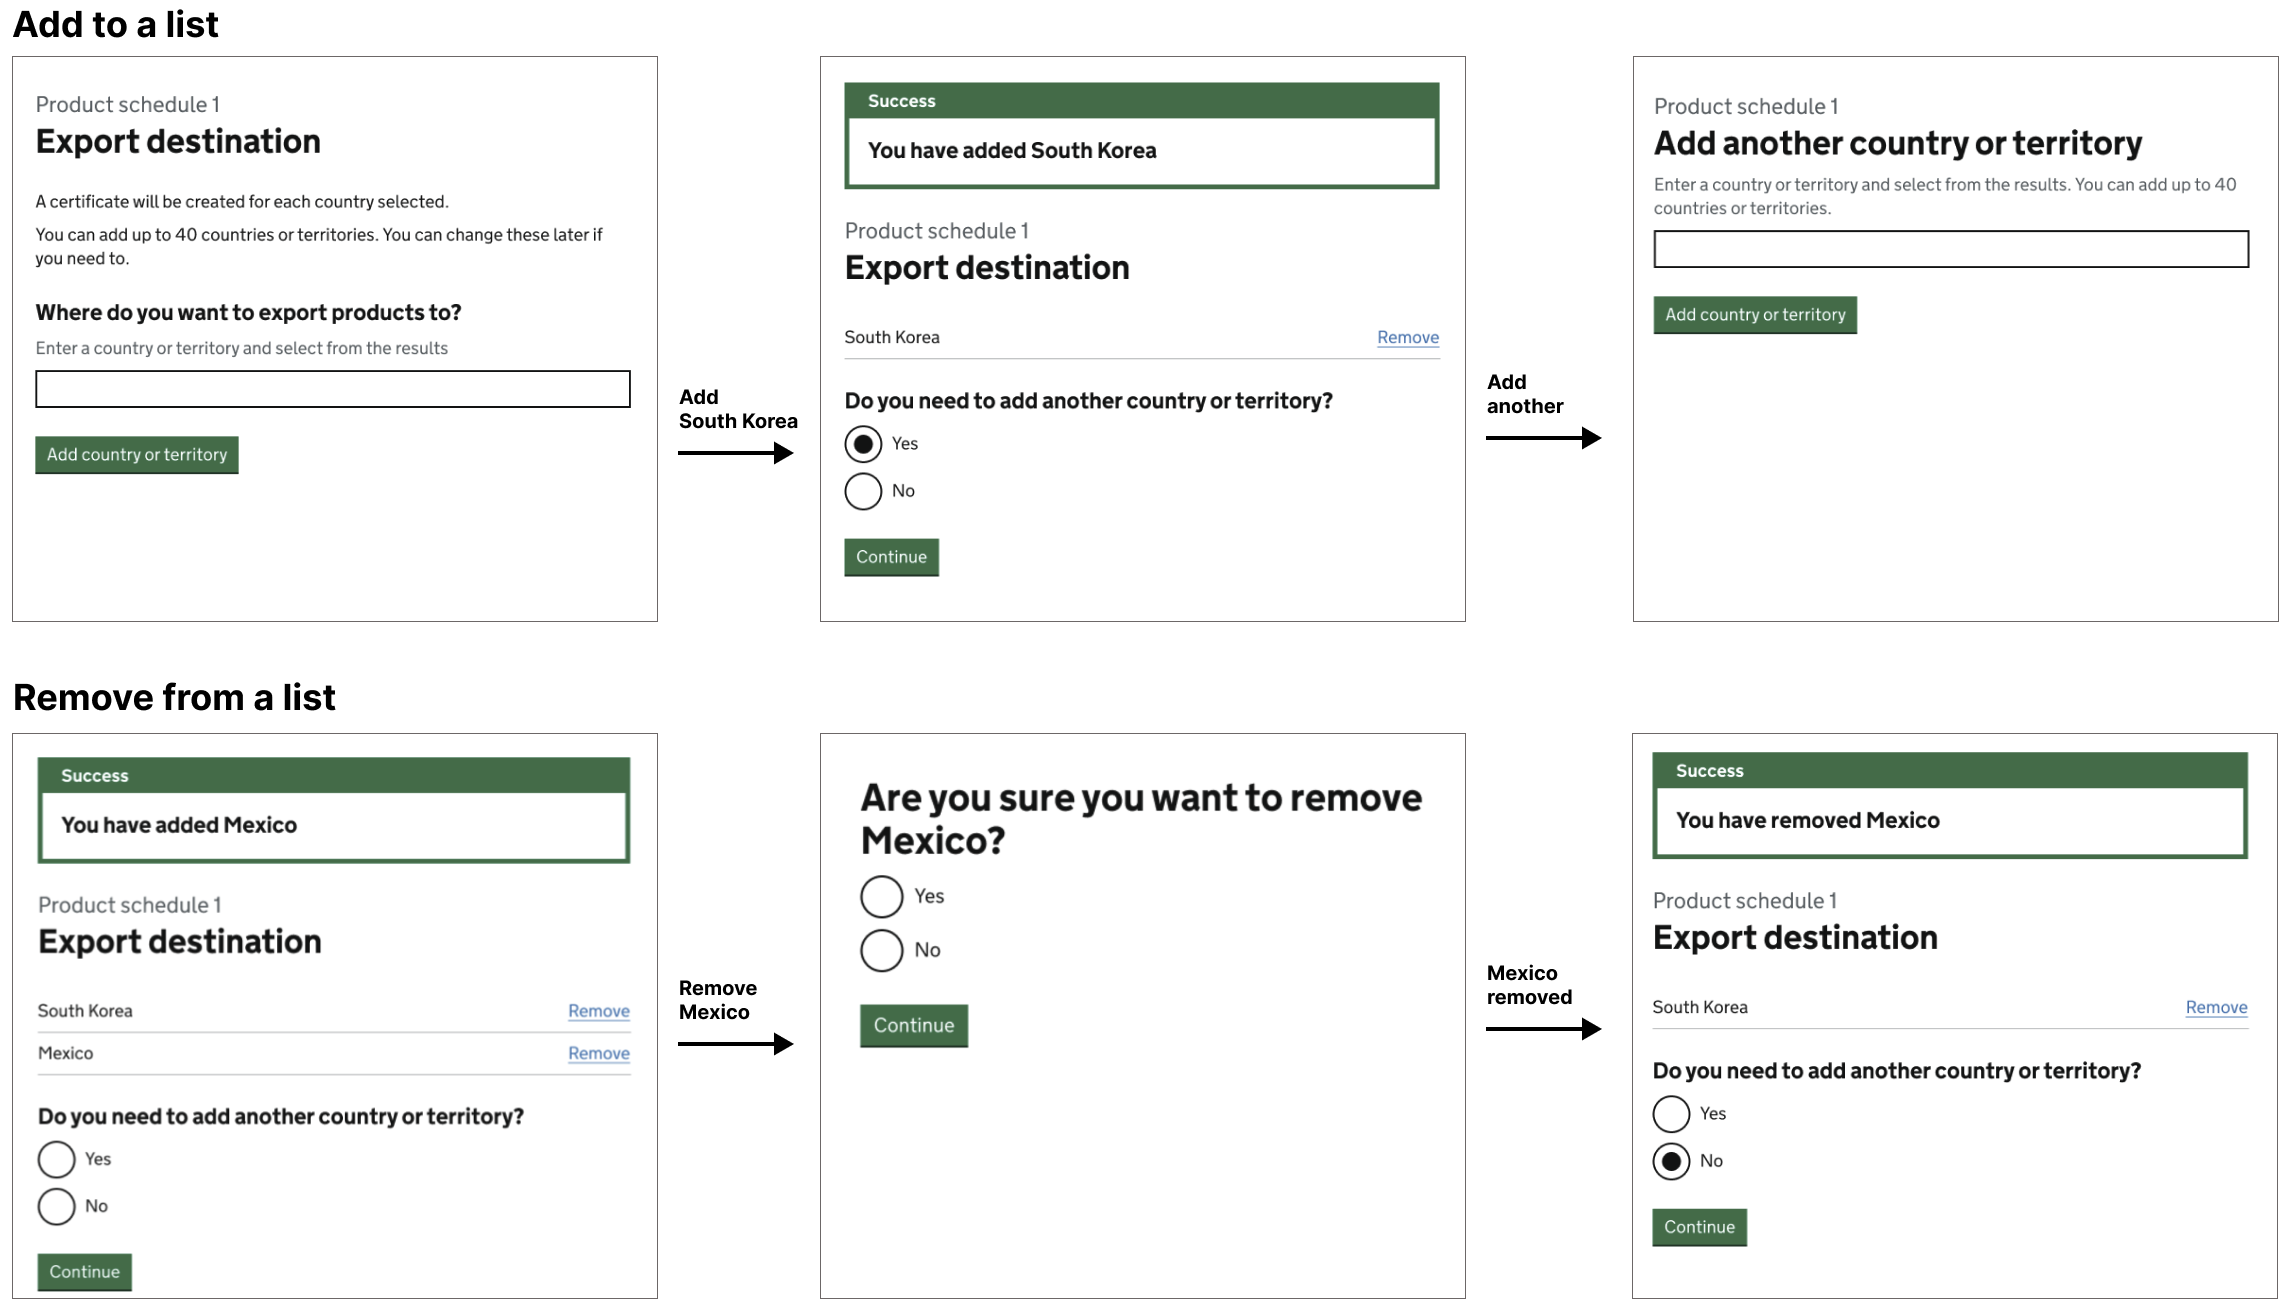
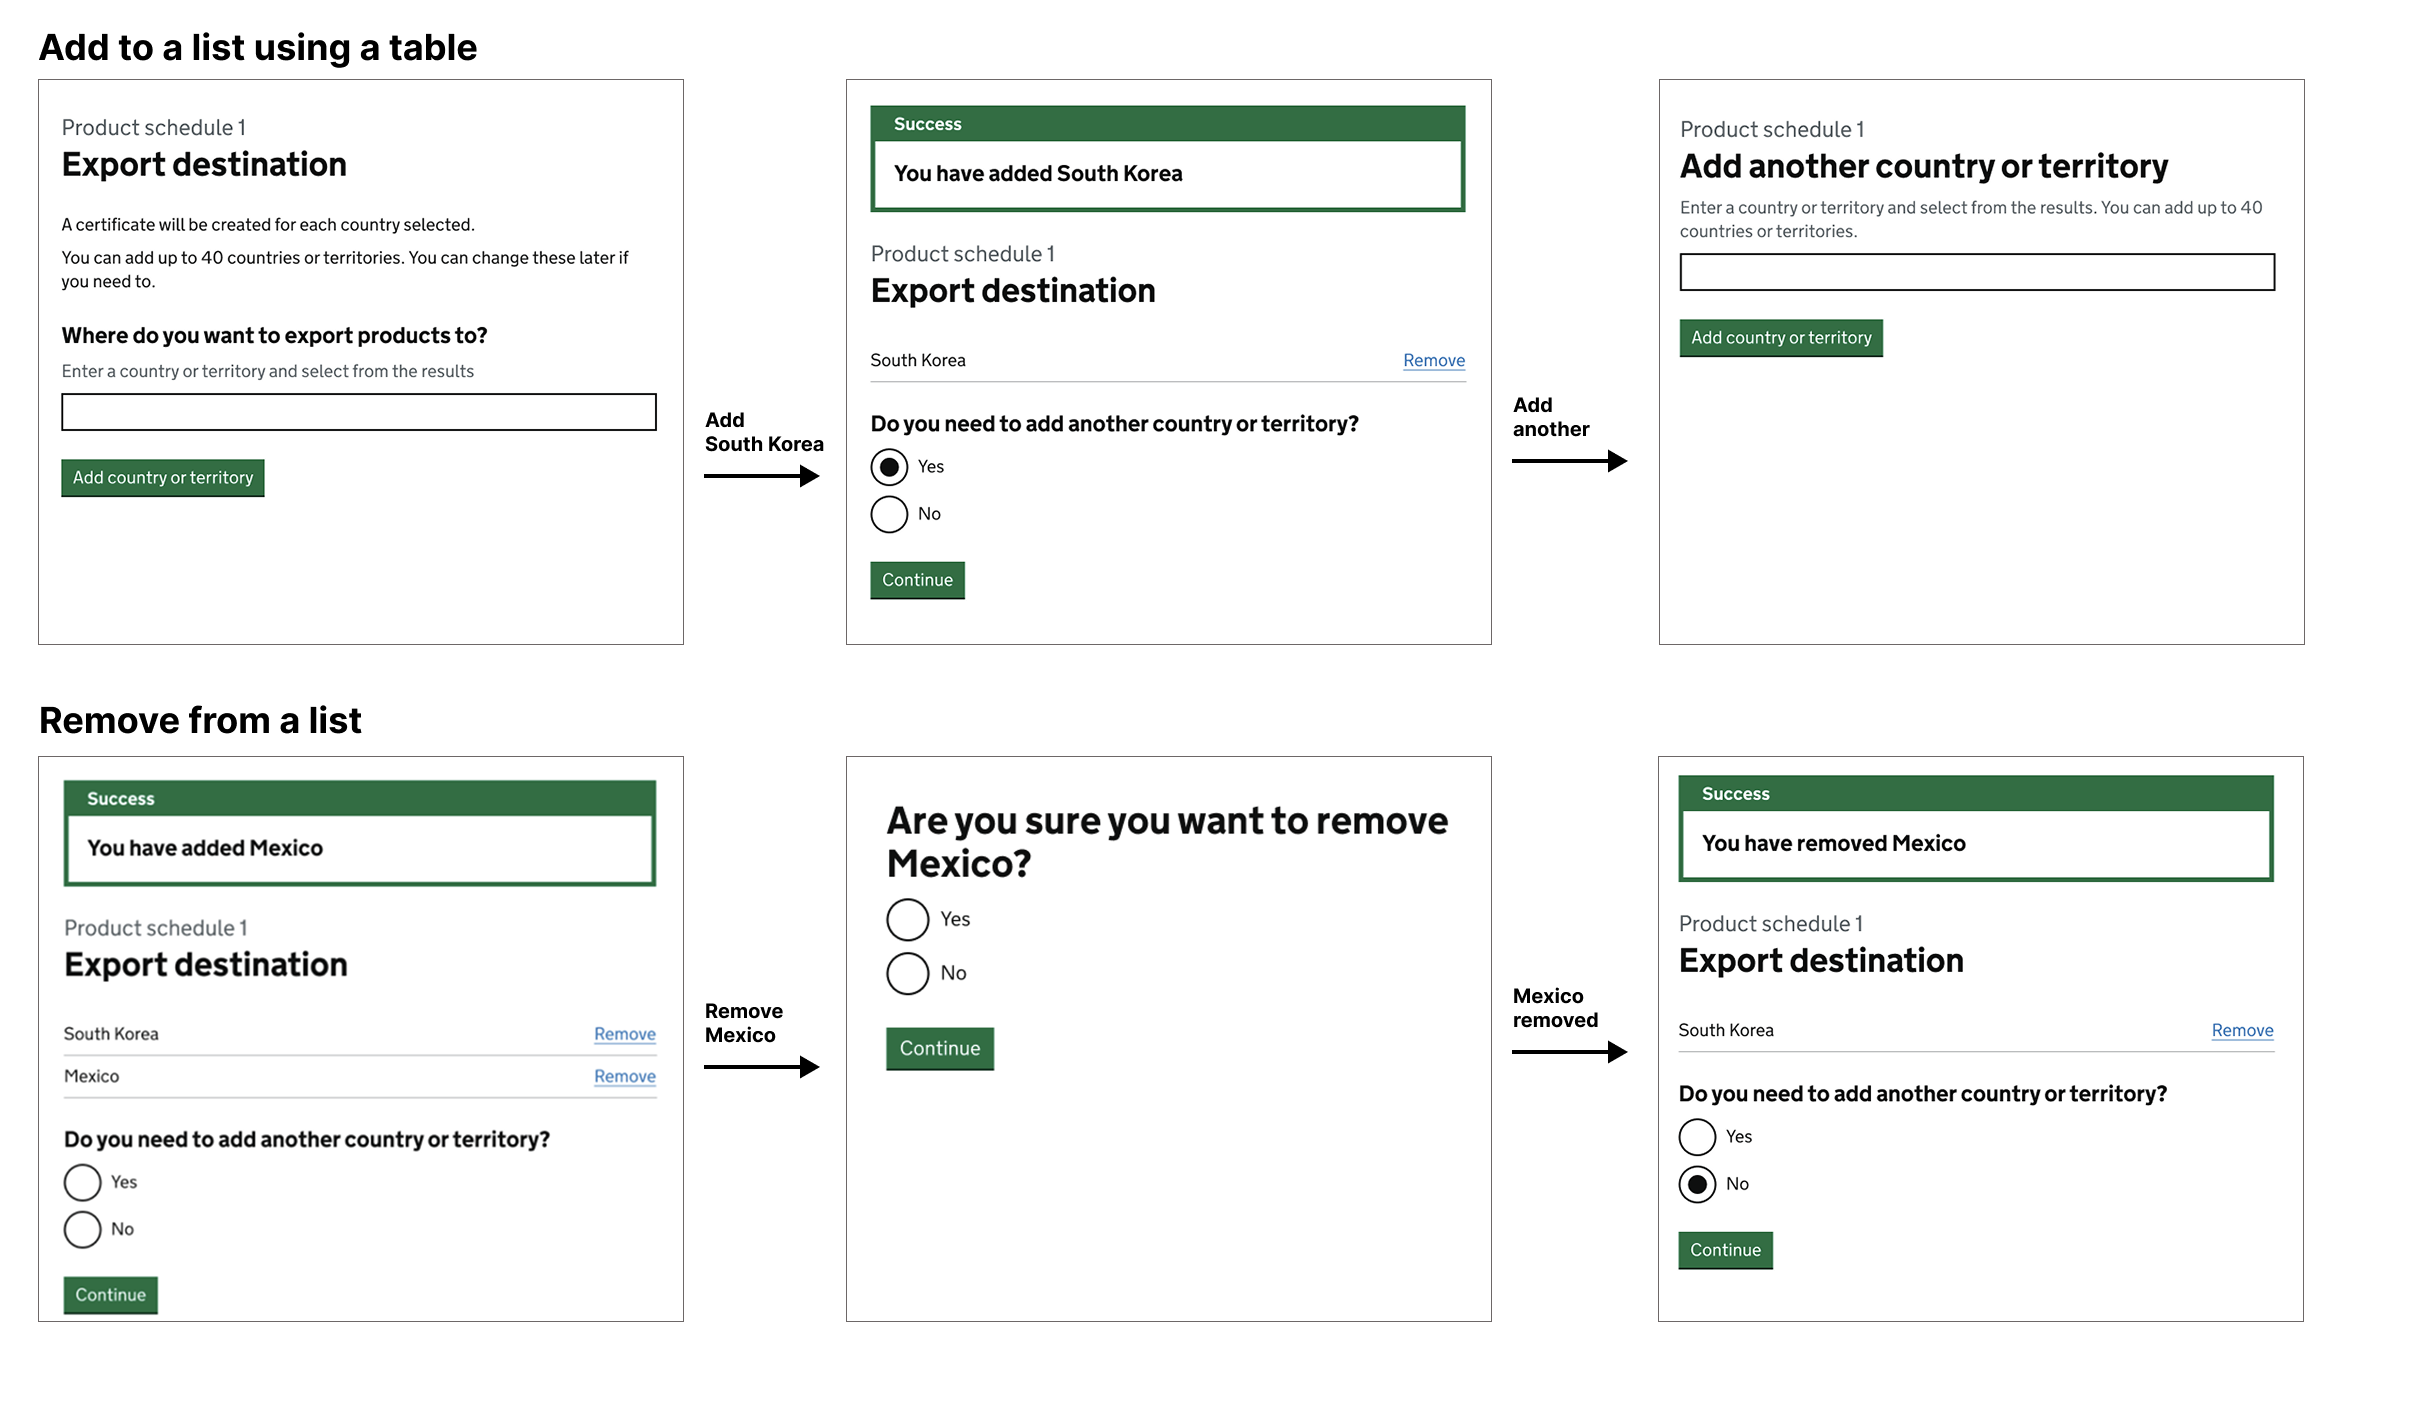
more changes

diff --git a/apps/docs/src/common/pages/patterns/add-to-a-list.tsx b/apps/docs/src/common/pages/patterns/add-to-a-list.tsx
@@ -11,6 +11,7 @@ const subsection = 'Help users to';
 
 const addAnotherFlow = require('../../../../assets/images/patterns/add-another-flow.png');
 const addAnotherEcil = require('../../../../assets/images/patterns/add-another-ecil01.png');
+const addAnotherEcilCard = require('../../../../assets/images/patterns/add-another-ecil02.png');
 const oldAutocomplete = require('../../../../assets/images/patterns/ecil-old-autocomplete.png');
 const addAnotherDmas = require('../../../../assets/images/patterns/dmas.png');
 
@@ -59,16 +60,20 @@ const Page: FC<PageProps> = () => (
 <h2 className="govuk-heading-m">'Add to a list' across multiple pages</h2>
       <p>This pattern is used on public-facing transactional services and contains:</p>
       <ul>
-        <li>a typeahead </li>
+        <li>a typeahead (to look up a long list of things such as countries) </li>
         <li><A href="https://design-system.service.gov.uk/components/summary-list/">summary list component</A></li>
         <li>question prompt to ask whether another item should be added</li>
       </ul>
 
-      <p>The Export Certificate Import Licensing (ECIL) service uses the multiple page layout to add multiple countries.</p>
+      <p>For items that contain one piece of information, use the table as a list.</p>
       <div className="example example-images confirmation" style={{marginBottom: "2em"}}>
         <img src={addAnotherEcil} className="image-examples" alt="An example of an 'Add another' pattern in Export certificate import licensing service" />
       </div>
-
+      <p>For more complex items that contain more information that needs to be displayed, use a summary card as part of the list.</p>
+      <div className="example example-images confirmation" style={{marginBottom: "2em"}}>
+        <img src={addAnotherEcilCard} className="image-examples" alt="An example of an 'Add another' pattern in Export certificate import licensing service" />
+      </div>
+<p>The Export Certificate Import Licensing (ECIL) service uses the 'Add to a list' across multiple pages, using both table and card formats.</p>
       <h2 className="govuk-heading-m">'Add to a list' on a single page</h2>
             <p>This pattern should be used on internal services where more information needs to sit across a single screen. Like the multiple screen layout, it contains a typeahead and summary list but does not include the question prompt.</p>
             <p>This pattern was developed by the BIST design working group and has been used by the Digital Market Access System (DMAS) to successfully add multiple sectors and government agencies.</p>

diff --git a/apps/docs/src/common/pages/patterns.tsx b/apps/docs/src/common/pages/patterns.tsx
@@ -20,10 +20,6 @@ export const menu = (
         text: 'Know when a page is up to date'
       },
       {
-        href: '/patterns/manage-complex-information',
-        text: 'Manage grouped information'
-      },
-      {
         href: '/patterns/manage-queries',
         text: 'Manage requests for information'
       }
